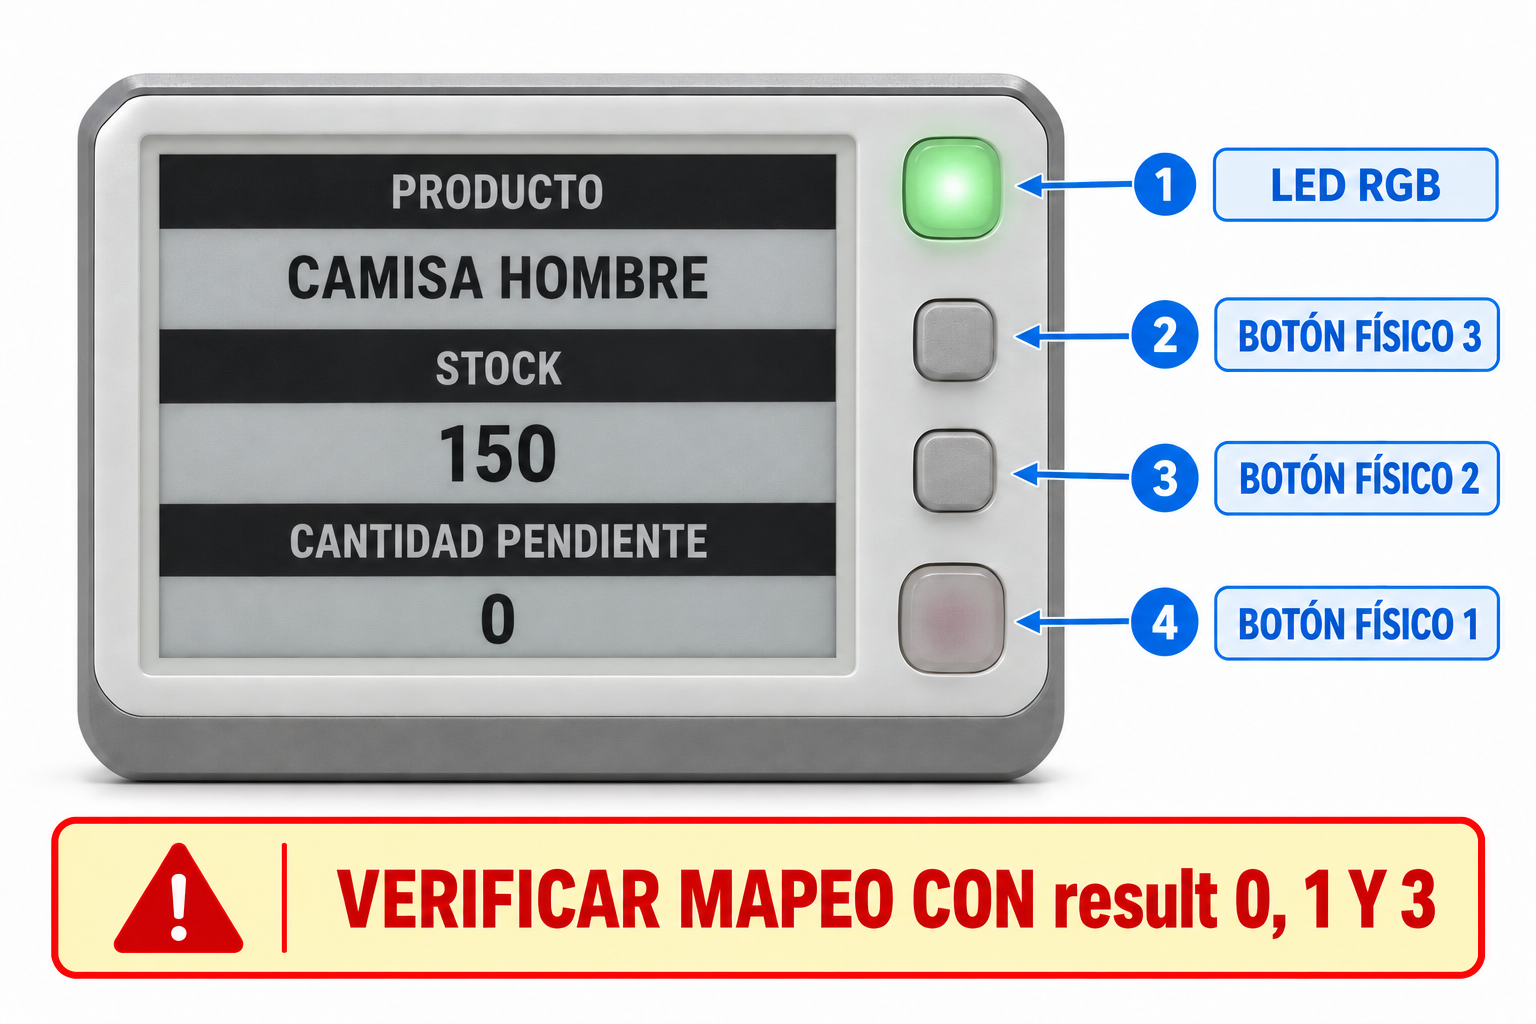
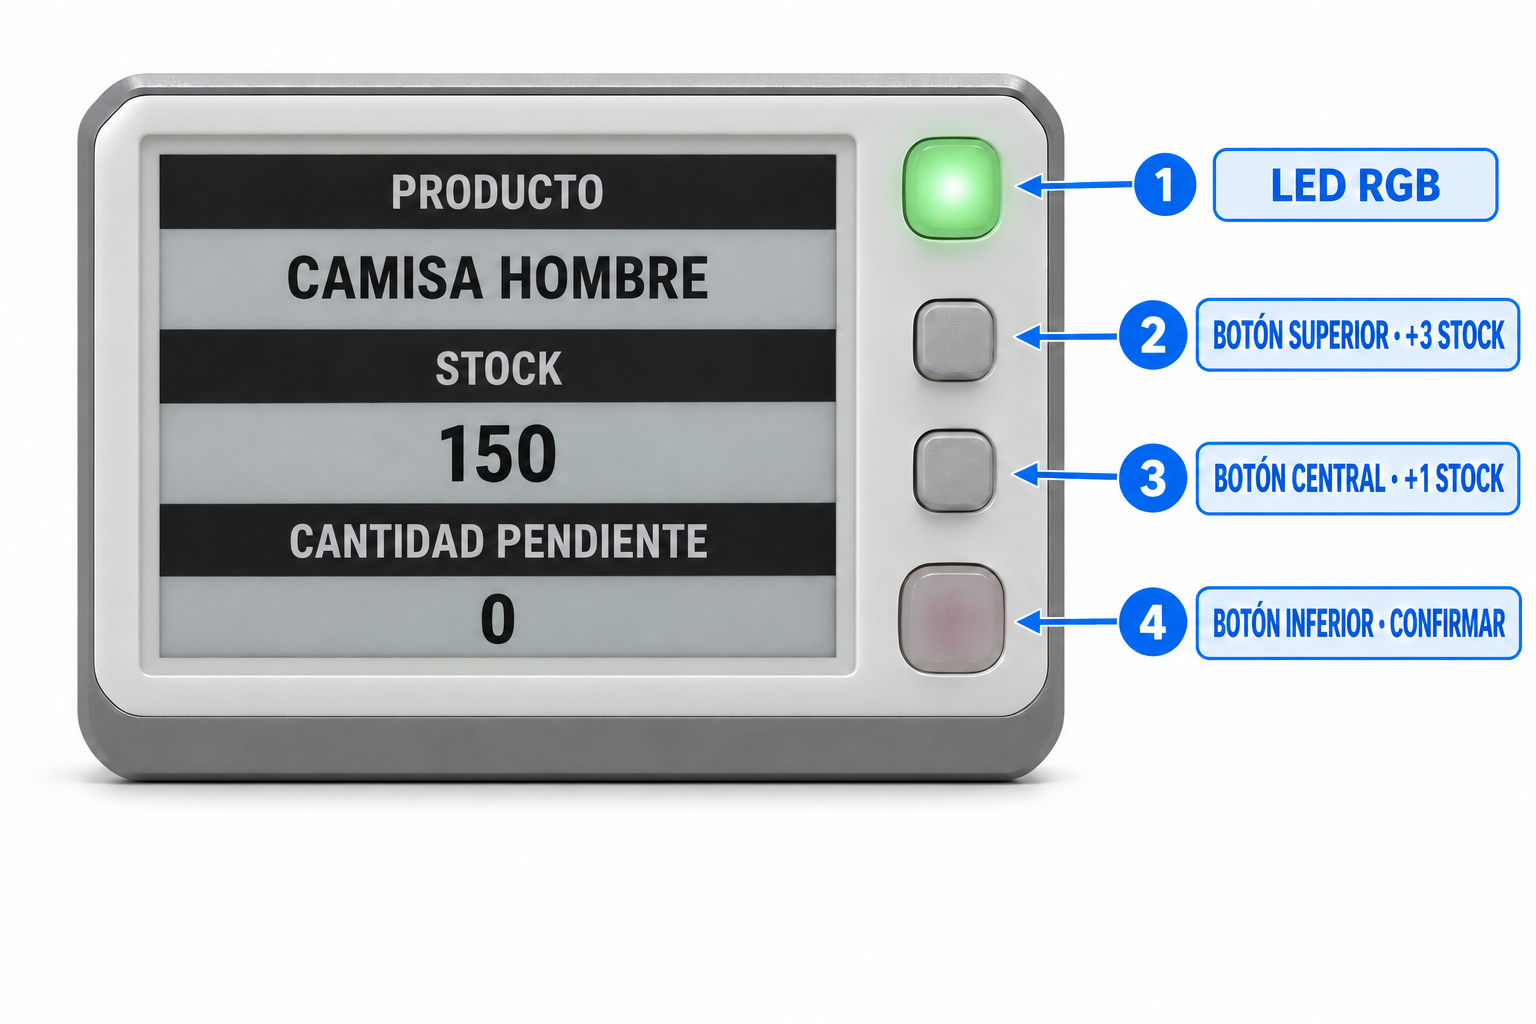
v3.1: updated tag button's images

diff --git a/docs/admin.md b/docs/admin.md
@@ -250,7 +250,7 @@ Al guardar, Odoo envía al router una trama semejante a esta:
 1. Crear y confirmar una recepción o entrega en Odoo.
 2. Pulsar **Validar** en el albarán.
 3. Si el albarán contiene productos con tag, Odoo no completa todavía la operación: envía la cantidad al hardware y muestra el aviso **Operación individual ... enviada al Hardware**.
-4. El operario realiza el movimiento físico y pulsa el botón físico configurado para que el router envíe `result = 0`.
+4. El operario realiza el movimiento físico y pulsa el botón inferior, que envía `result = 0`.
 5. El router llama al callback de Odoo.
 6. Odoo valida el albarán, recalcula el stock, pone la cantidad pendiente a cero y apaga el LED.
 
@@ -272,13 +272,13 @@ Flujo recomendado:
 2. Confirmar que cada producto Picksmart tiene una MAC configurada.
 3. Preparar las cantidades recibidas.
 4. Pulsar **Validar**. El módulo envía la operación al tag y deja pendiente la confirmación física.
-5. Pulsar el botón físico mapeado a `result = 0`. Odoo termina la recepción, actualiza el stock y apaga el LED.
+5. Pulsar el botón inferior (`result = 0`). Odoo termina la recepción, actualiza el stock y apaga el LED.
 
 En una recepción, el tag muestra la cantidad pendiente con signo negativo y mantiene el LED **azul** parpadeando. Cuando se haya colocado físicamente toda la mercancía, enviar la confirmación `result = 0`:
 
 ![Mockup del tag real durante una recepción: LED azul](images/13-mockup-tag-recepcion-real.png)
 
-> **Recepción:** azul significa entrada pendiente. El callback `result = 0` confirma el total mostrado; después de procesarlo, Odoo envía `000000` y el LED se apaga. El botón inferior señalado en el mockup es ilustrativo hasta verificar el mapeo del router.
+> **Recepción:** azul significa entrada pendiente. El botón inferior envía `result = 0` y confirma el total mostrado. Después de procesarlo, Odoo envía `000000` y el LED se apaga.
 
 #### Entregas
 
@@ -296,13 +296,13 @@ Flujo recomendado:
 2. Comprobar que el producto está disponible y que la cantidad preparada es correcta.
 3. Pulsar **Validar**. El tag muestra la cantidad de salida y enciende el LED verde.
 4. Realizar la recogida física indicada.
-5. Pulsar el botón físico mapeado a `result = 0`. Odoo valida la entrega, descuenta el stock y pone la cantidad pendiente a cero.
+5. Pulsar el botón inferior (`result = 0`). Odoo valida la entrega, descuenta el stock y pone la cantidad pendiente a cero.
 
 En una entrega, el tag muestra una cantidad positiva y mantiene el LED **verde** parpadeando. Cuando se haya retirado físicamente toda la cantidad indicada, enviar la confirmación `result = 0`:
 
 ![Mockup del tag real durante una entrega: LED verde](images/14-mockup-tag-entrega-real.png)
 
-> **Entrega:** verde significa salida pendiente. El callback `result = 0` confirma la recogida; después de procesarlo, Odoo apaga el LED. El botón inferior señalado en el mockup es ilustrativo hasta verificar el mapeo del router.
+> **Entrega:** verde significa salida pendiente. El botón inferior envía `result = 0` y confirma la recogida. Después de procesarlo, Odoo apaga el LED.
 
 ### 6.3. Traslado por lote u ola con varios productos
 
@@ -329,7 +329,7 @@ Flujo recomendado:
 4. Confirmar que cada producto dispone de una MAC diferente y de su tag físico.
 5. Pulsar **Validar**. El módulo agrupa las cantidades por producto y envía un total distinto a cada tag.
 6. Procesar físicamente el total mostrado en cada tag.
-7. Confirmar cada tag mediante el control físico que el router tenga mapeado a `result = 0`.
+7. Confirmar cada tag mediante el botón inferior (`result = 0`).
 8. Odoo intenta validar el lote contenedor y sus operaciones pendientes.
 
 Ejemplo: si el lote contiene tres albaranes con `10 + 20 + 5` unidades de **Camisa hombre** y otros movimientos de **Camisa mujer**, Odoo envía `35` al tag de Camisa hombre y, por separado, el total de Camisa mujer a su propio tag. No se combinan productos distintos en un mismo tag.
@@ -354,22 +354,21 @@ En los traslados por lote se usa el mismo código visual que en los albaranes in
 
 ### 6.4. Función de los botones
 
-| Botón recibido | Acción en Odoo |
-|---:|---|
-| `0` | Confirma la operación pendiente. Valida albaranes/lotes cuando existen, pone `Pickup Quantity` a cero y actualiza el tag. |
-| `1` | Incrementa el stock del producto en `1`. |
-| `3` | Incrementa el stock del producto en `3`. |
+| Botón físico | Callback | Acción en Odoo |
+|---|---:|---|
+| Inferior | `result = 0` | Confirma la operación pendiente. Valida albaranes/lotes cuando existen, pone `Pickup Quantity` a cero y actualiza el tag. |
+| Central | `result = 1` | Incrementa el stock del producto en `1`. |
+| Superior | `result = 3` | Incrementa el stock del producto en `3`. |
 
 Los botones `1` y `3` realizan ajustes directos sobre la primera ubicación interna encontrada por Odoo. Deben utilizarse solo si ese comportamiento coincide con la operativa del almacén.
 
-El tag físico tiene un LED RGB y tres botones colocados verticalmente. La numeración física indicada por el fabricante y los valores `result` recibidos por Odoo son conceptos diferentes:
+El tag físico tiene un LED RGB y tres botones colocados verticalmente:
 
 ![Distribución real del LED y de los tres botones físicos](images/15-esquema-botones-tag-real.png)
 
-> Antes de operar con stock real, comprobar qué botón físico genera cada valor `result`. El código procesa `result = 0`, `1` y `3`, mientras que la documentación visual del tag denomina los controles `button1`, `button2` y `button3`.
-
-- Botón `1`: suma exactamente una unidad al stock de Odoo.
-- Botón `3`: suma exactamente tres unidades al stock de Odoo.
+- Botón central: suma exactamente una unidad al stock de Odoo.
+- Botón superior: suma exactamente tres unidades al stock de Odoo.
+- Botón inferior: confirma la operación pendiente.
 - Tras cualquiera de estas pulsaciones, el módulo actualiza el stock y vuelve a enviar la pantalla del tag con el LED verde.
 - Estos callbacks no sustituyen la validación de una recepción o entrega. Para confirmar una operación pendiente Odoo espera siempre `result = 0`.
 
@@ -494,7 +493,7 @@ Normalmente significa que la MAC no se encontró o que se produjo una excepción
 
 ### La cantidad o el stock no son los esperados
 
-- Comprobar si existen varios movimientos pendientes del mismo producto: el botón `0` busca todos los movimientos confirmados, asignados o parcialmente disponibles de ese producto.
+- Comprobar si existen varios movimientos pendientes del mismo producto: el botón inferior (`result = 0`) busca todos los movimientos confirmados, asignados o parcialmente disponibles de ese producto.
 - Revisar el tipo de operación: entrada genera valor negativo; salida genera valor positivo.
 - Verificar la ubicación interna usada por los ajustes directos de los botones `1` y `3`.
 - Probar primero con un único producto, un único albarán y una base de pruebas.
